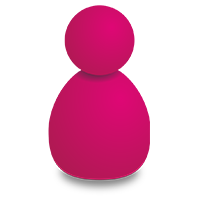
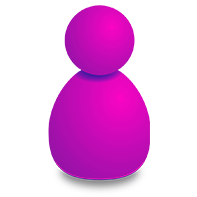
Add four new pawn colours and optimize the others

diff --git a/src/tests/TestLauncher.java b/src/tests/TestLauncher.java
@@ -19,10 +19,8 @@ public final class TestLauncher {
      */
     @Test
     public void testModel() {
-        final ClassicDiceTest classicDiceTest = new ClassicDiceTest();
-        classicDiceTest.testClassicDice();
-        final PlayerTest playerTest = new PlayerTest();
-        playerTest.testPlayer();
+        new ClassicDiceTest().testClassicDice();
+        new PlayerTest().testPlayer();
     }
 
     /**
